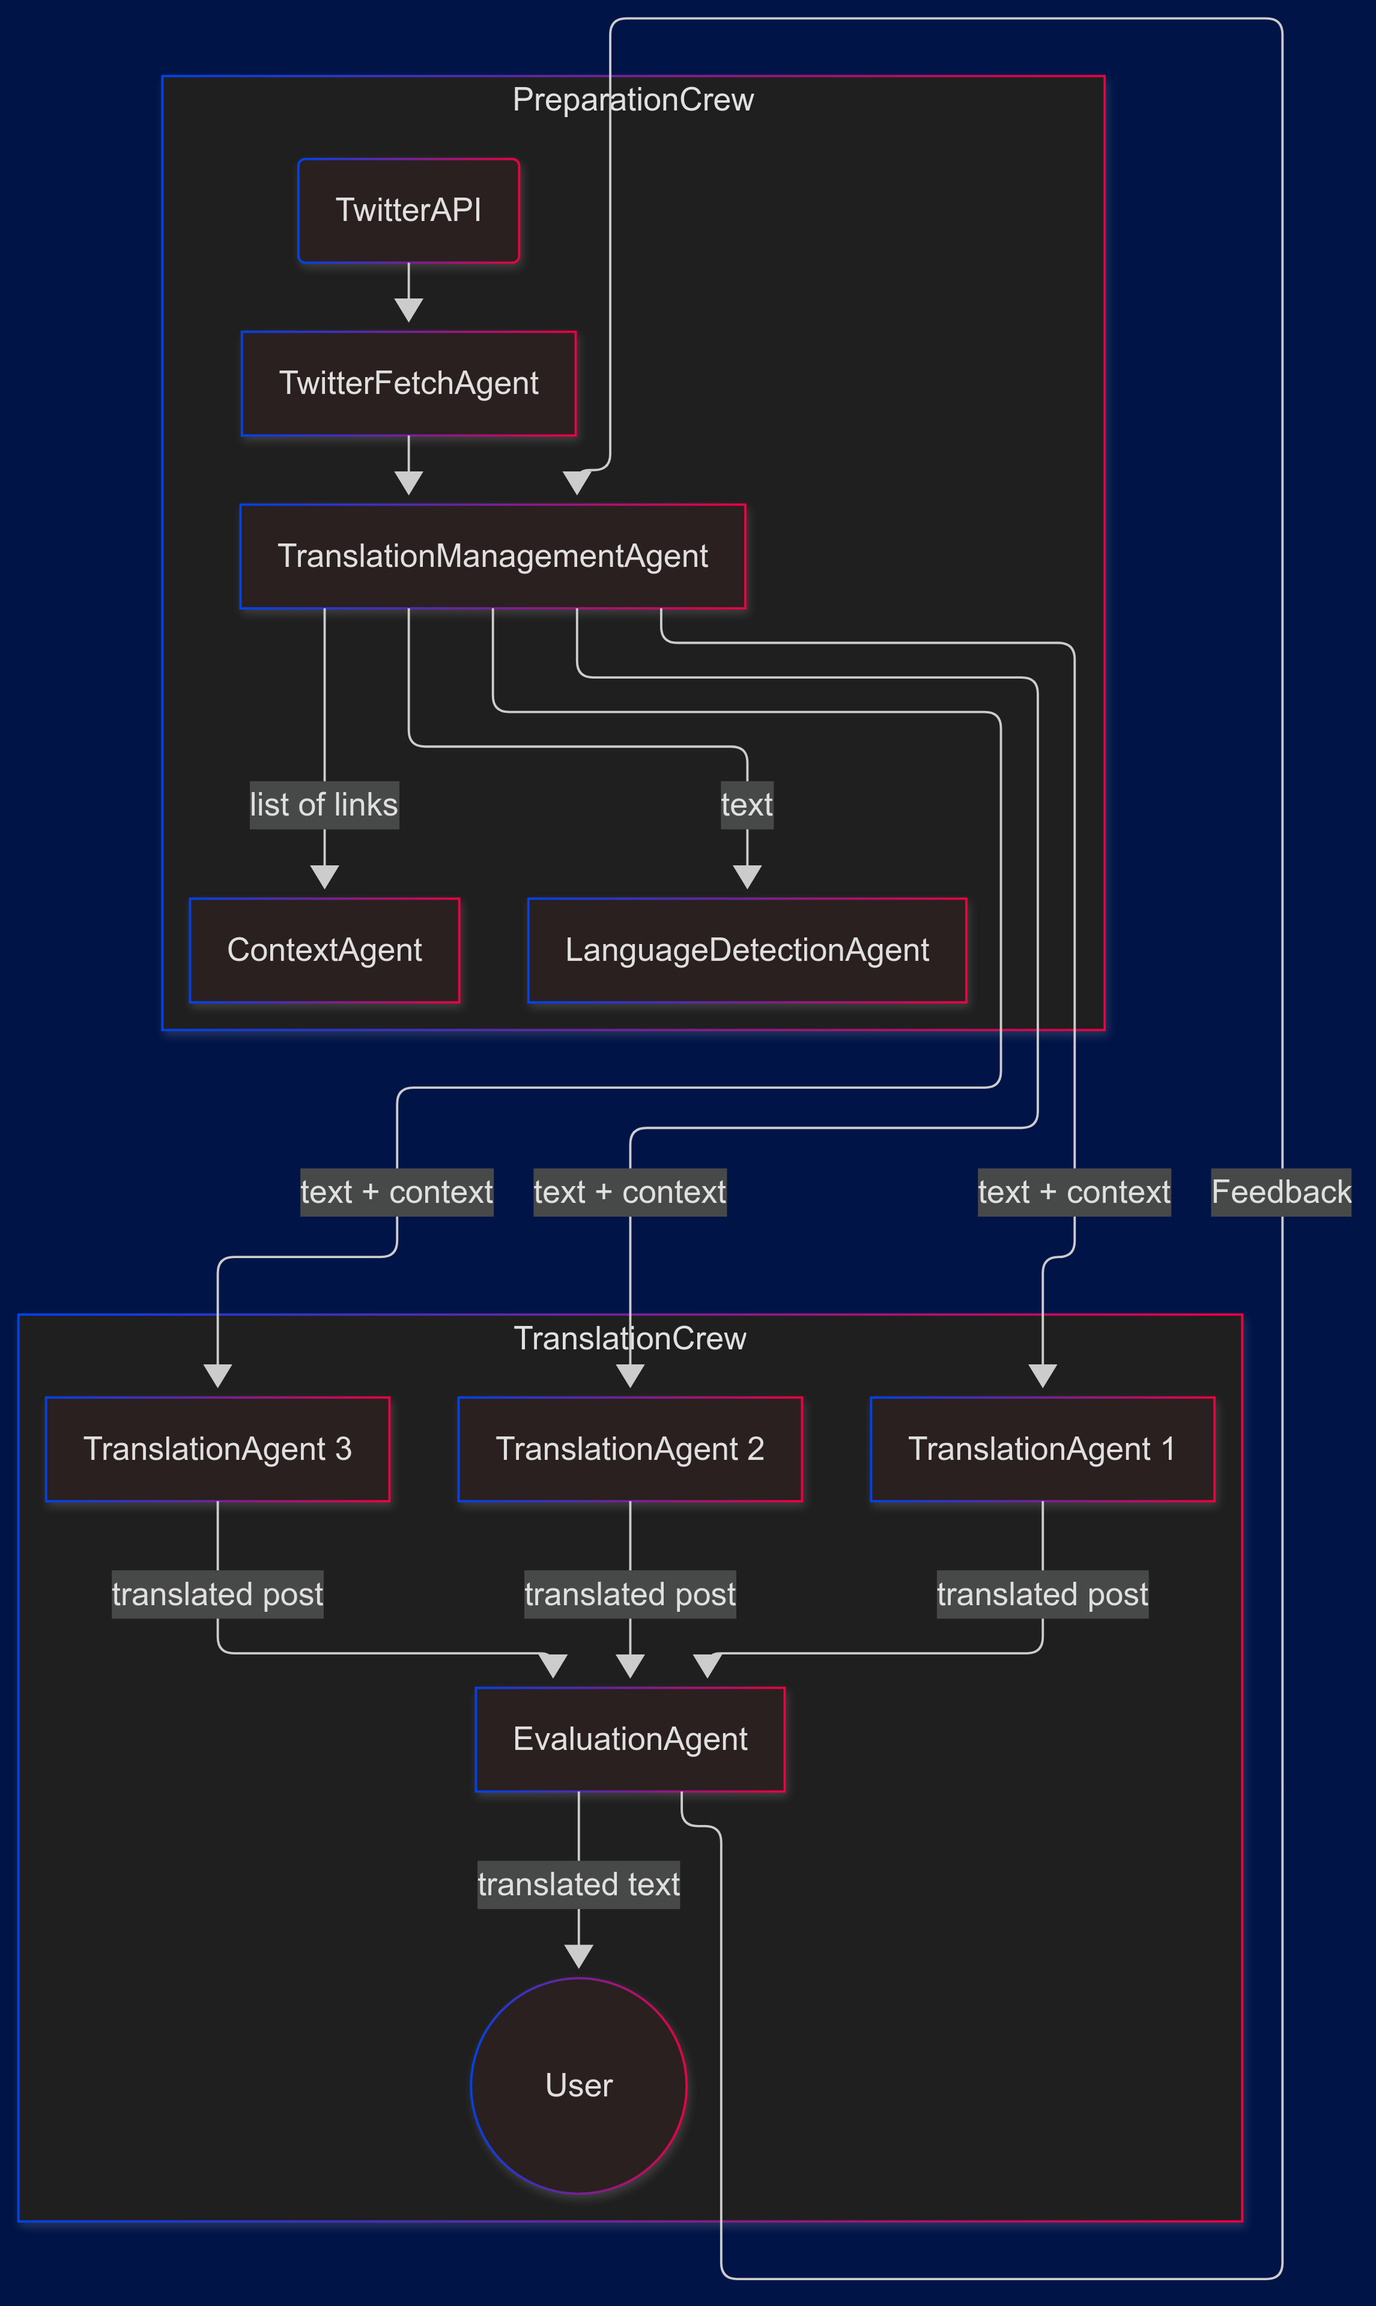
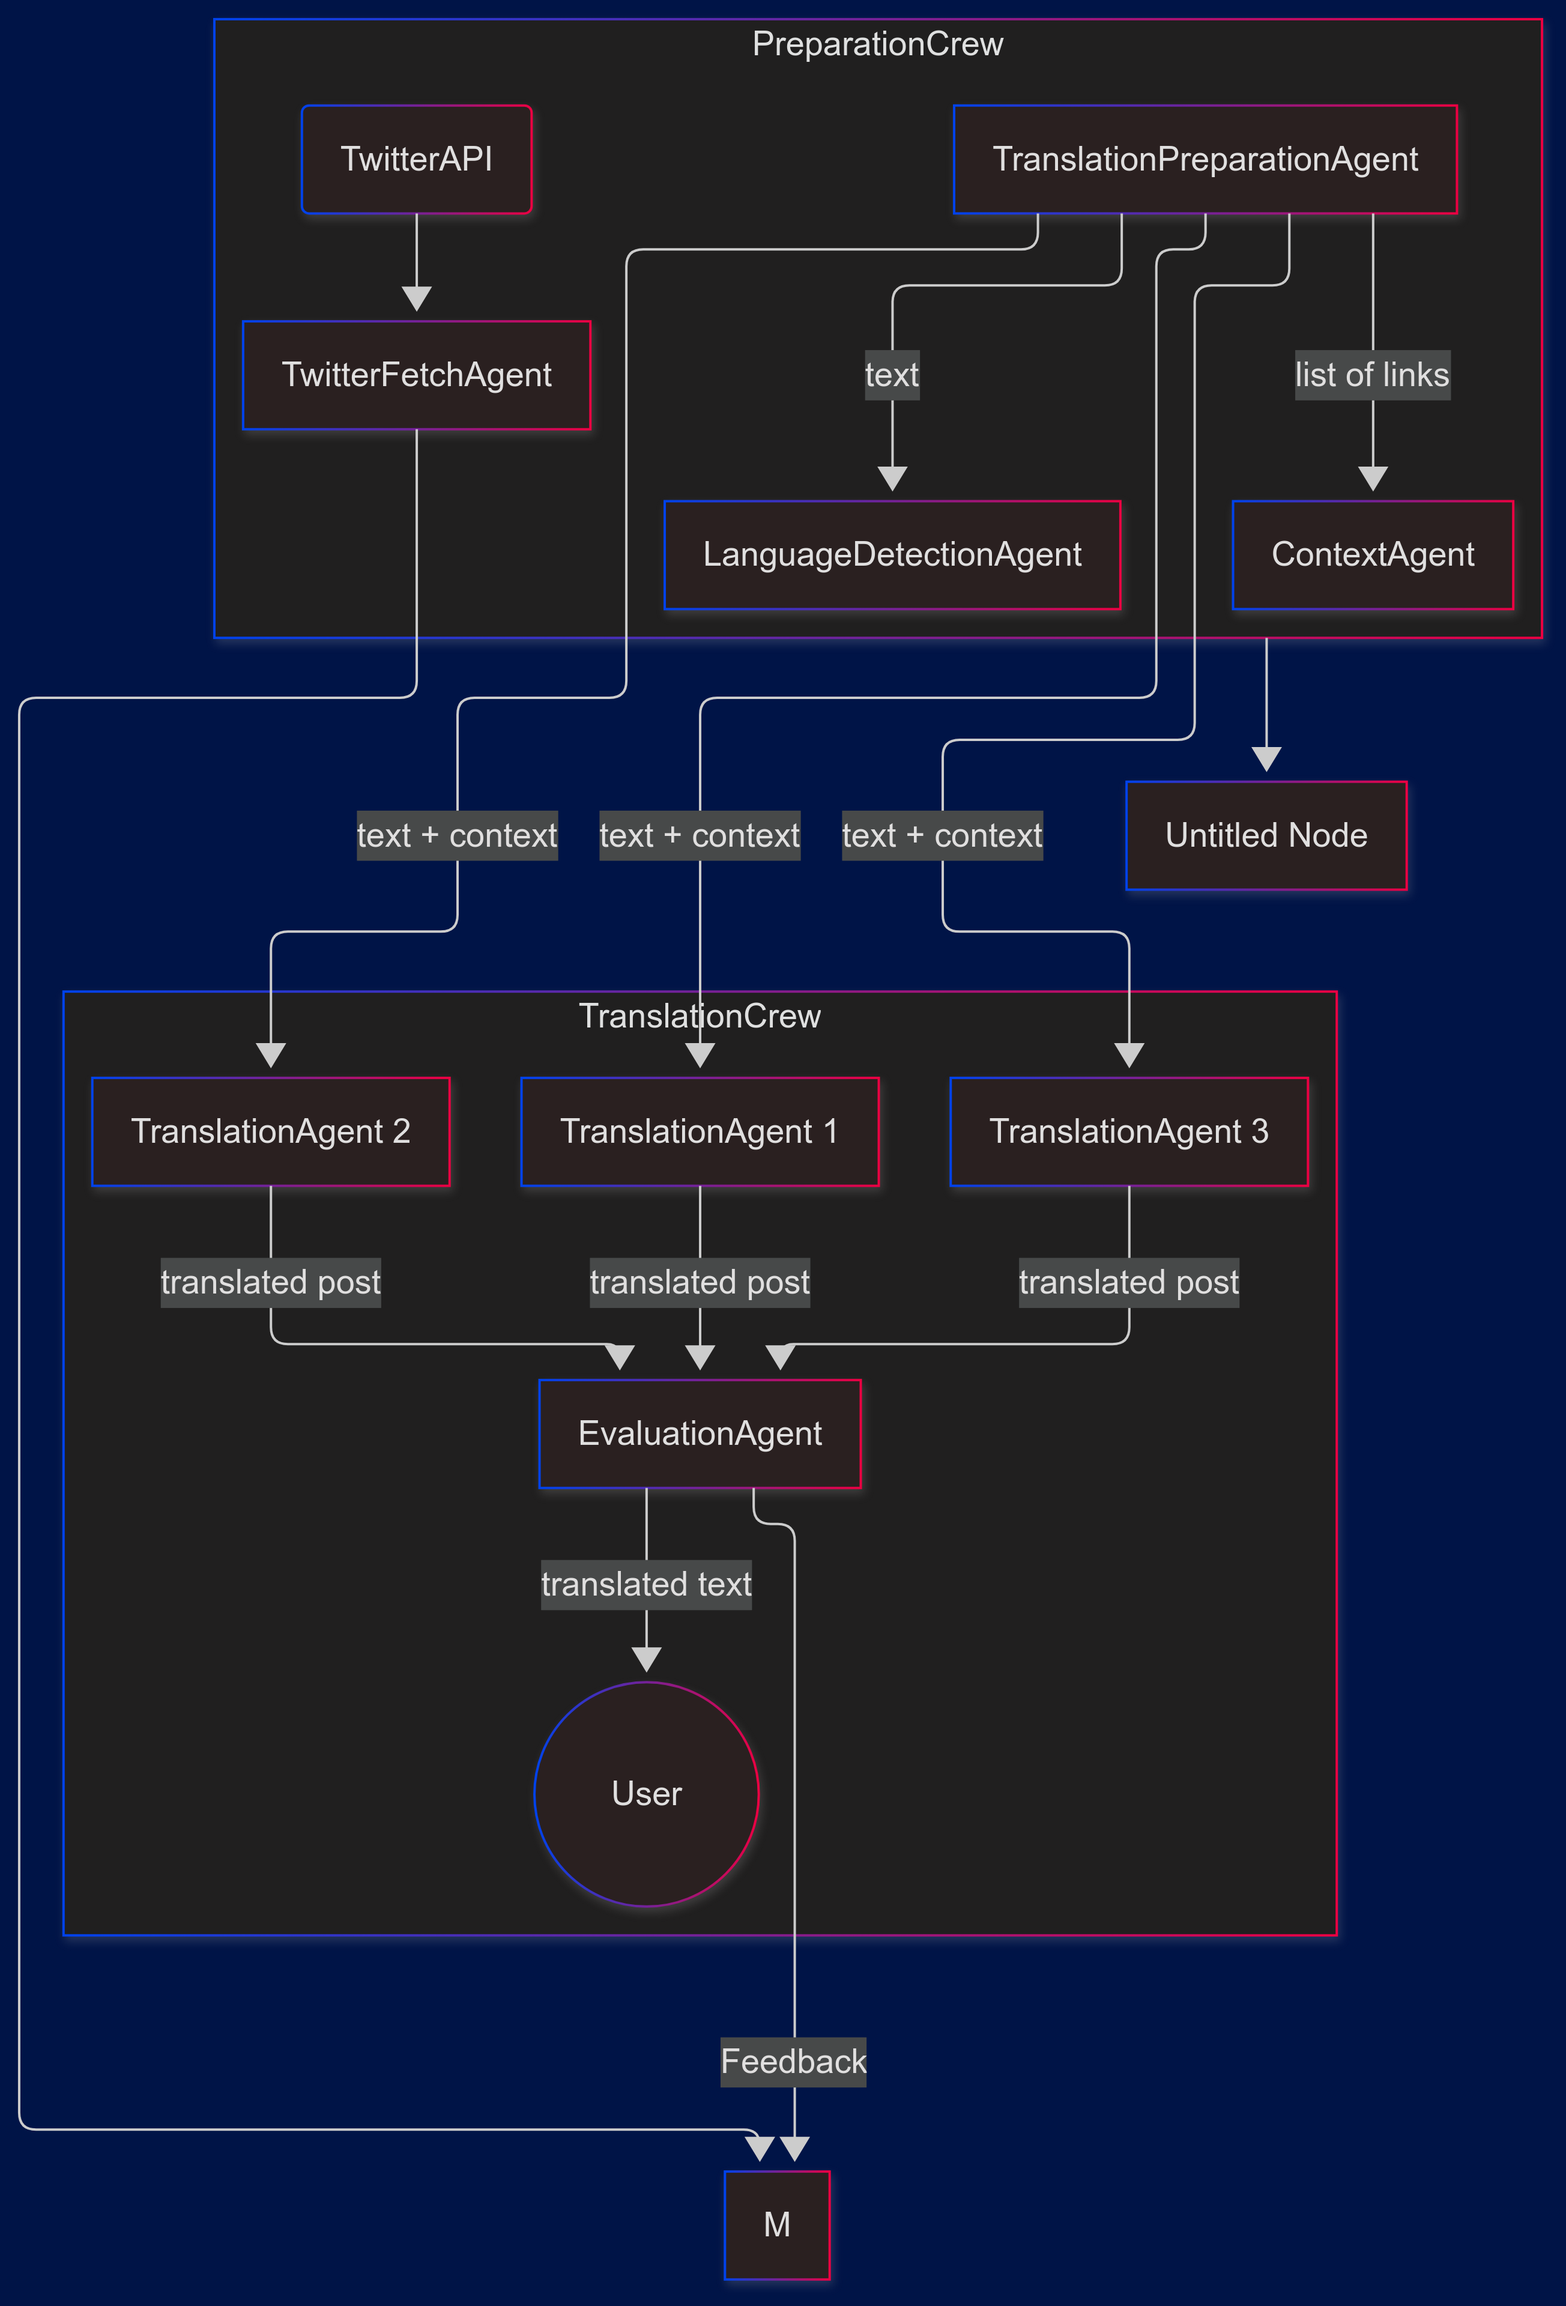
update architecture diagrams

diff --git a/doc/v0/v0.md b/doc/v0/v0.md
@@ -1,26 +1,38 @@
-# V0 Architecture #
+# V0 Architecture
 
-In v0 implementation, we focus on the very essential set of agents. 
-- The tweets will be manually generated to facilitate tests. 
+In v0 implementation, we focus on the very essential set of agents.
+
+- The tweets will be manually generated to facilitate tests.
 - Only text-formatted context will be included
-- The translated texts will be directly feed to the user without evaluation and feedback. 
-- Only the text will be translated, other attributes won't be translated. 
+- The translated texts will be directly feed to the user without evaluation and feedback.
+- Only the text will be translated, other attributes won't be translated.
 - Assume only handling 1 tweet at a time
 - Only supports English and Chinese
 
-# Agent Design #
+# Flow Design
 
-## Translation Management agent ##
+Due to the design/limitation of crewai Crew and Flow, I decided to separate the whole workflow (TranslationFlow) into 2 parts: Preparation and Translation, each is handled by a crew: PreparationCrew, TranslationCrew.
 
-Translation Management agent passes text and context to translation agent
+In v0, I will implement the 2 crews:
+PreparationCrew contains TranslationPreparationAgent
+TranslationCrew contains TranslationAgent
 
-## Translation agent ##
-Translation agent uses OpenAI language model to translate the text given the context
+# Agent Design
+
+## TranslationPreparationAgent
+
+TranslationPreparationAgent passes text and context to translation agent
+
+## TranslationAgent
+
+TranslationAgent uses OpenAI language model to translate the text given the context
 
 # Note
+
 It is sufficient to use Sequential process to accomplish the requirement despite we already created the management agent
 
-## Tweet structure ##
+## Tweet structure
+
 ```
 {
   "data": {

diff --git a/doc/v0.1/v0.1.md b/doc/v0.1/v0.1.md
@@ -17,5 +17,3 @@ we add 1 more requirement:
 ## Context agent ##
 The Context agent gets the extract links in the text from Translation Management agent, then uses selenium_scraping_tool to provide context, then pass the context back to the Translation Management agent.
 
-# Note #
-In v0.1 design, we will leverage Hierarchical process to ensure the translation starts after the context fetch completes
